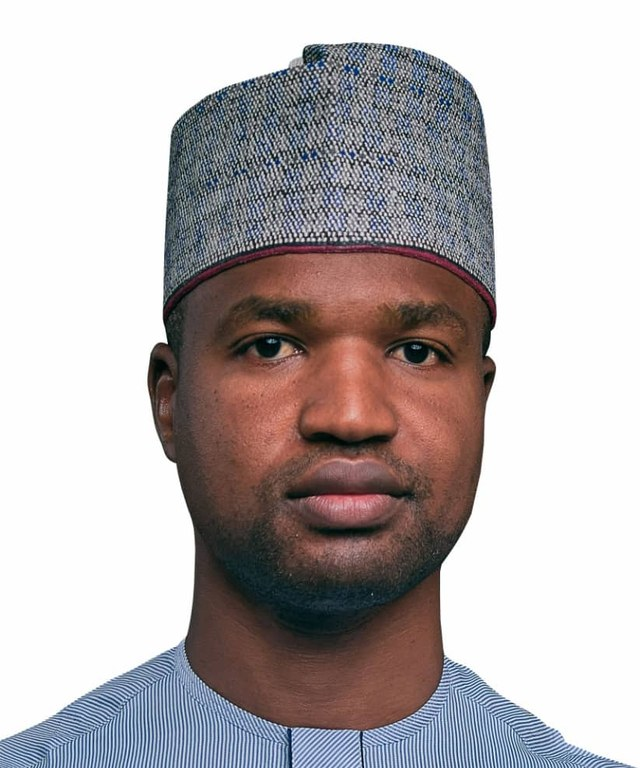
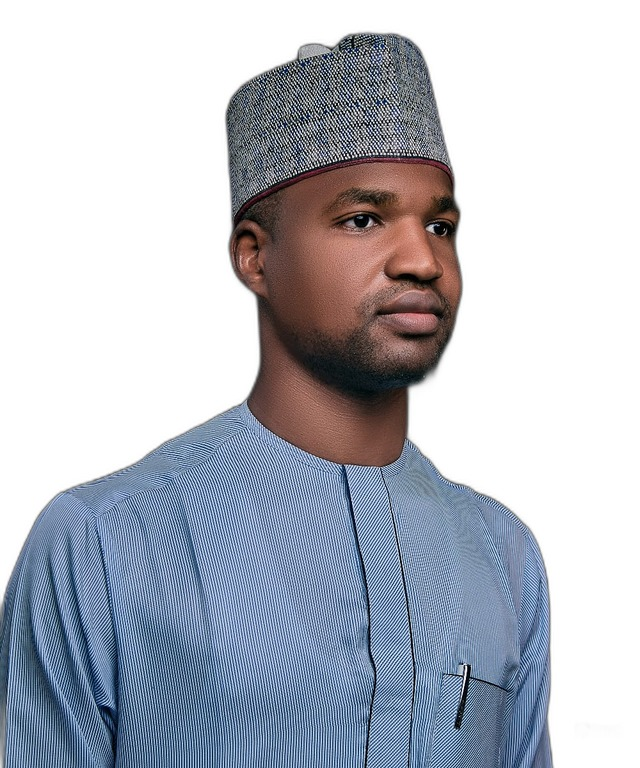
Update Maleektech website

diff --git a/css/style.css b/css/style.css
@@ -87,7 +87,8 @@ p{ margin:0; }
   gap:20px;
 }
 .brand{ display:flex; align-items:center; gap:10px; flex-shrink:0; }
-.brand img{ height:40px; width:auto; }
+.brand img{ height:56px; width:auto; }
+@media (max-width:640px){ .brand img{ height:46px; } }
 
 .nav-links{ display:flex; align-items:center; gap:28px; }
 .nav-links a{
@@ -355,7 +356,7 @@ section{ padding:100px 0; }
    ============================================================ */
 .sheet-nav{
   display:flex; flex-wrap:wrap; gap:8px;
-  position:sticky; top:73px; background:var(--white); z-index:40;
+  position:sticky; top:85px; background:var(--white); z-index:40;
   padding:16px var(--edge); border-bottom:1px solid var(--border);
 }
 .sheet-nav button{
@@ -465,8 +466,8 @@ section{ padding:100px 0; }
    FOOTER
    ============================================================ */
 footer{ background:linear-gradient(160deg, var(--green-deep), #062f18); color:var(--white); padding:76px 0 0; }
-.footer-logo-chip{ background:var(--white); display:inline-flex; padding:10px 16px; border-radius:12px; margin-bottom:18px; }
-.footer-logo-chip img{ height:32px; width:auto; }
+.footer-logo-chip{ background:var(--white); display:inline-flex; padding:14px 22px; border-radius:14px; margin-bottom:20px; }
+.footer-logo-chip img{ height:44px; width:auto; }
 .footer-grid{ display:grid; grid-template-columns:1.4fr 1fr 1fr 1fr; gap:40px; padding-bottom:56px; border-bottom:1px solid rgba(255,255,255,0.14); }
 @media (max-width:820px){ .footer-grid{ grid-template-columns:1fr 1fr; } }
 @media (max-width:520px){ .footer-grid{ grid-template-columns:1fr; } }

diff --git a/team.html b/team.html
@@ -116,9 +116,9 @@
         </div>
       </div>
       <div class="team-card">
-        <div class="team-photo"><span class="initials">MA</span><span class="pending-tag">Photo pending</span></div>
+        <div class="team-photo"><span class="initials">UF</span><span class="pending-tag">Photo pending</span></div>
         <div class="team-card-body">
-          <h3>Mustapha Abdulqadir, ESQ</h3>
+          <h3>Umar Faruk Said, ESQ</h3>
           <div class="role">Legal Adviser &amp; Secretary</div>
           <p class="bio">Oversees legal compliance, contracts and corporate secretarial matters.</p>
         </div>
@@ -134,7 +134,7 @@
     </div>
 
     <div class="team-placeholder-note reveal">
-      <strong>Note for site editor:</strong> Muhammad Saidu Shehu and Mustapha Abdulqadir, ESQ are shown with initials until their photos are supplied — swap in <code>assets/team/[name].jpg</code> and update the corresponding card in <code>team.html</code> once available.
+      <strong>Note for site editor:</strong> Muhammad Saidu Shehu and Umar Faruk Said, ESQ are shown with initials until their photos are supplied — swap in <code>assets/team/[name].jpg</code> and update the corresponding card in <code>team.html</code> once available.
     </div>
   </div>
 </section>
